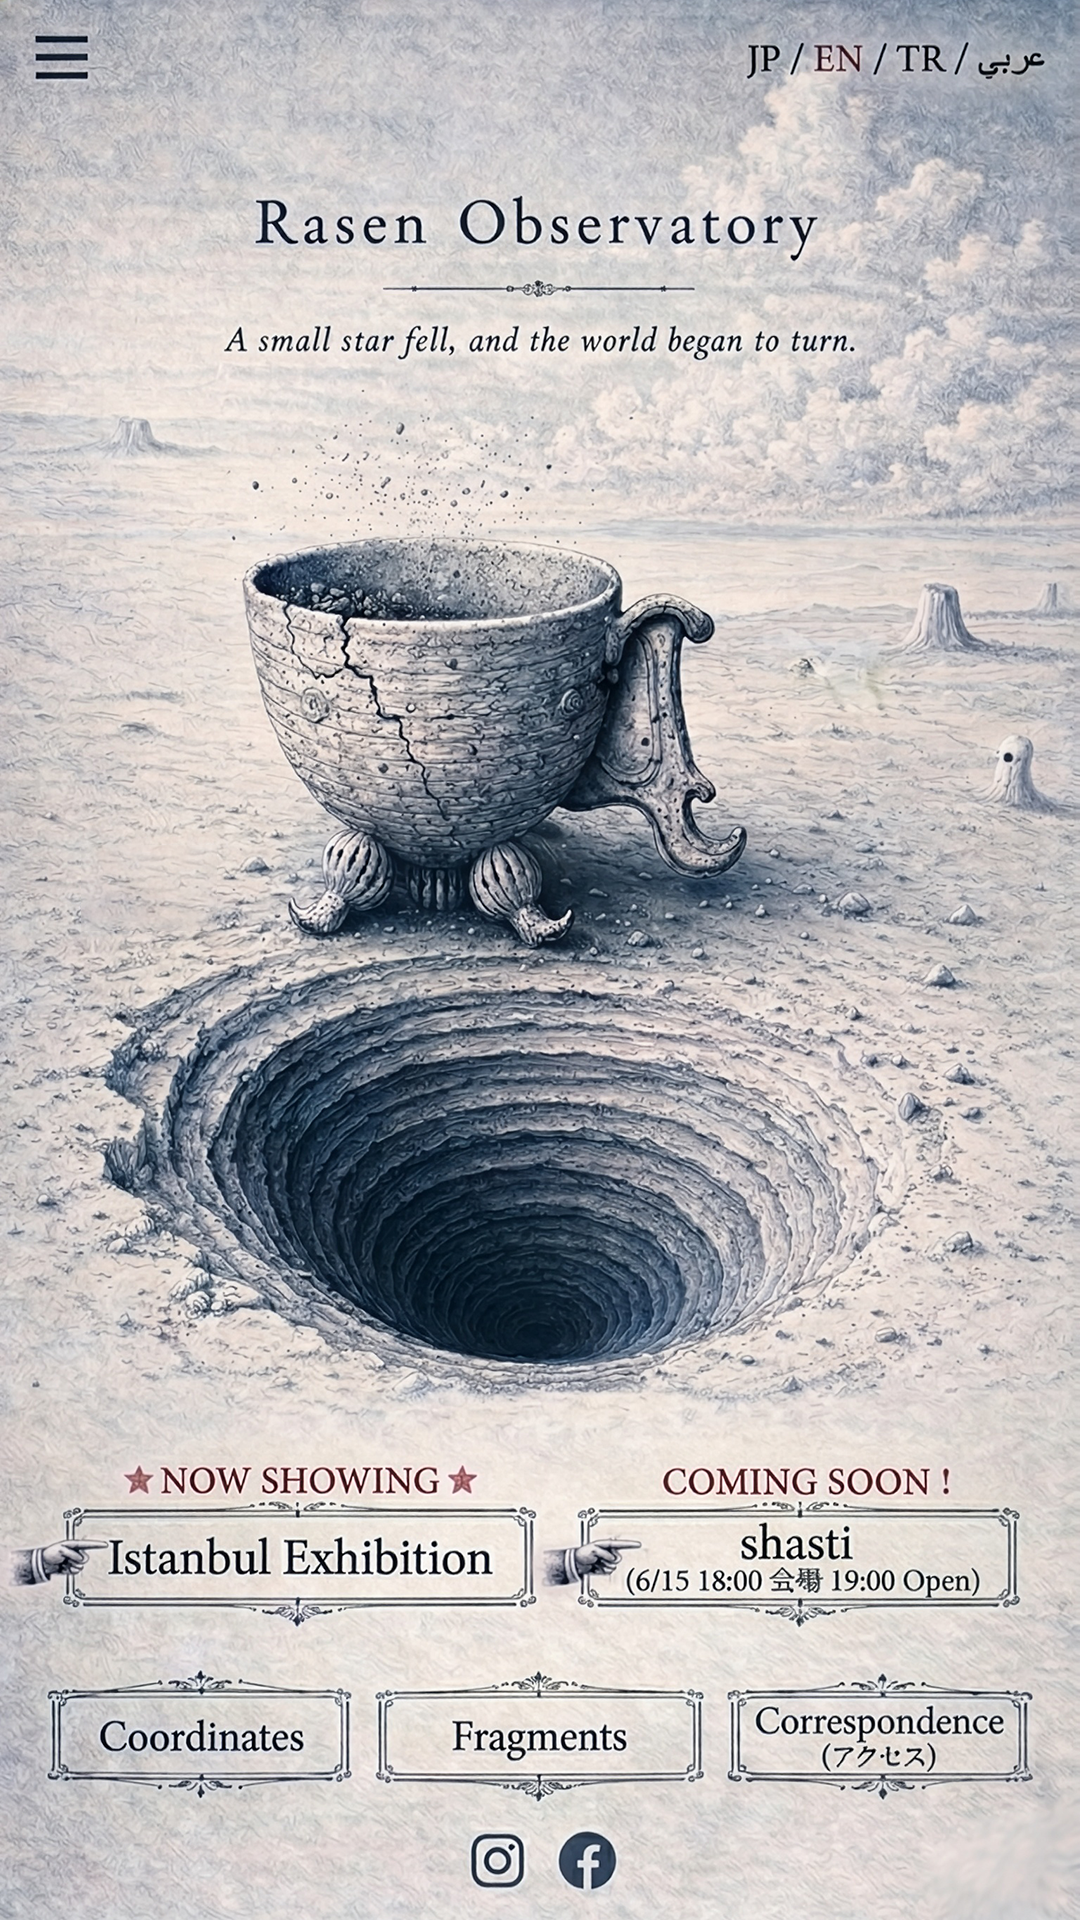
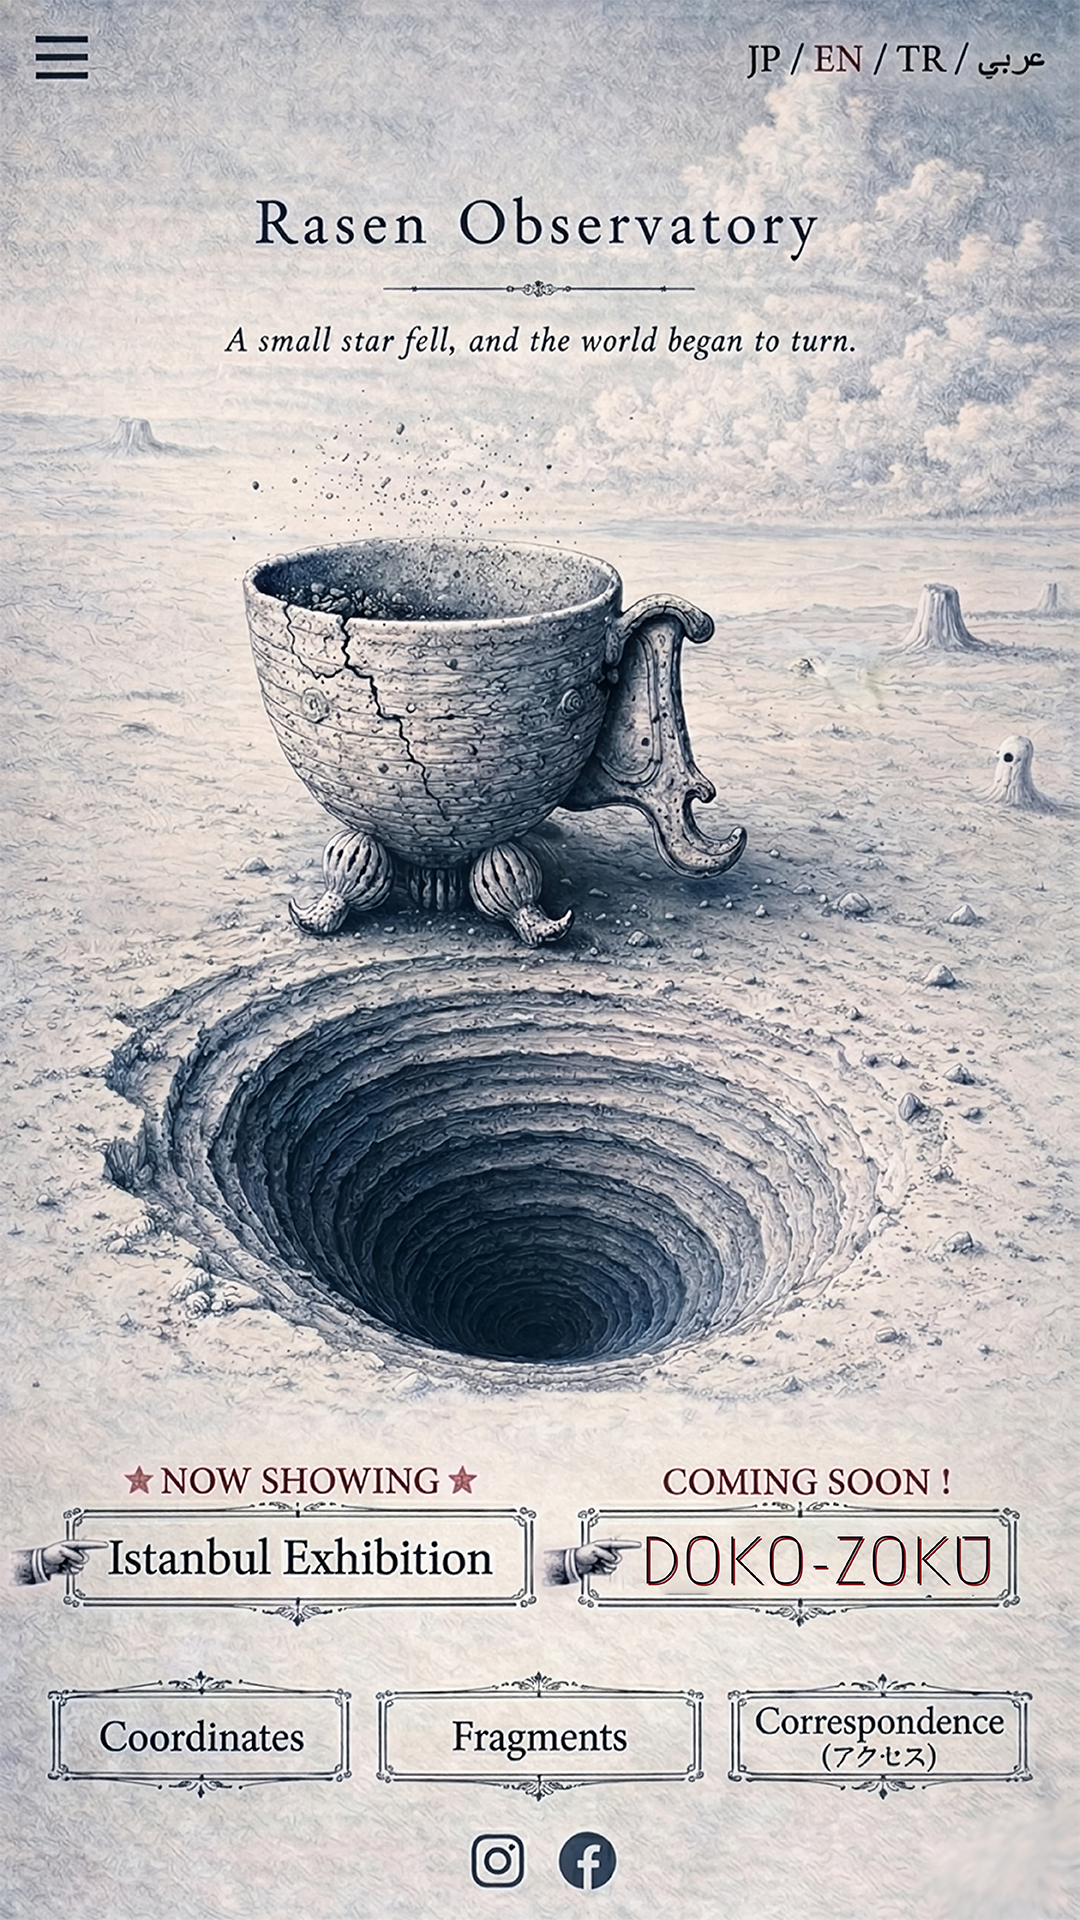
first commit

Changed region(s): [[0.5806, 0.7812, 0.9167, 0.8438]]

diff --git a/app/page2/page.tsx b/app/page2/page.tsx
@@ -1,7 +1,7 @@
 import Image from 'next/image';
 import Link from 'next/link';
-import topImage from '../../public/shasti_flyer.jpg';
-import subImage from '../../public/shasti_ura.jpg';
+import topImage from '../../public/dokozoku0901.png';
+import subImage from '../../public/dokozoku_ura.png';
 import HamburgerMenu from '../components/HamburgerMenu';
 
 export default function Page2() {
@@ -14,7 +14,7 @@ export default function Page2() {
                     <div className="flex flex-col gap-12">
                         <Image
                             src={topImage}
-                            alt="フライヤー表面"
+                            alt="dokozoku"
                             sizes="100vw"
                             className="w-full h-auto shadow-2xl"
                             priority
@@ -22,7 +22,7 @@ export default function Page2() {
                         />
                         <Image
                             src={subImage}
-                            alt="フライヤー裏面"
+                            alt="dokozoku_ura"
                             sizes="100vw"
                             className="w-full h-auto shadow-2xl"
                             unoptimized
